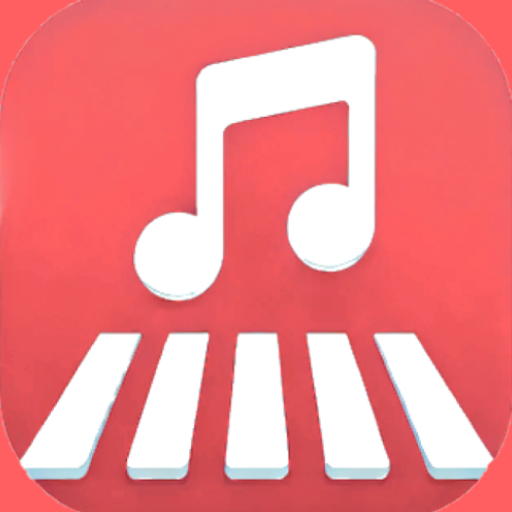
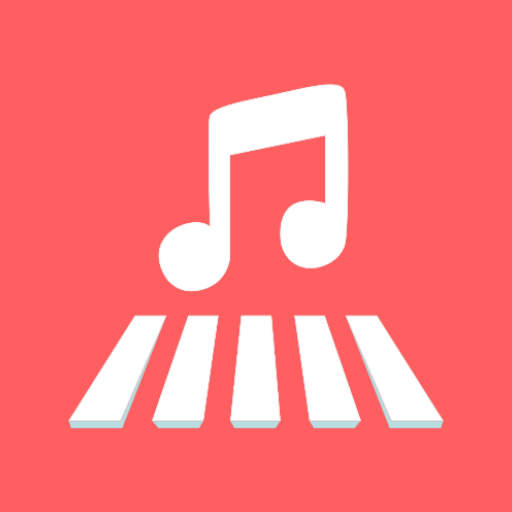
[design] 앱 아이콘 개선 및 스플래시 화면 띄우기

diff --git a/app/src/main/java/com/squirtles/musicroad/main/MainActivity.kt b/app/src/main/java/com/squirtles/musicroad/main/MainActivity.kt
@@ -10,6 +10,7 @@ import androidx.activity.viewModels
 import androidx.appcompat.app.AppCompatActivity
 import androidx.compose.runtime.remember
 import androidx.core.content.PermissionChecker
+import androidx.core.splashscreen.SplashScreen.Companion.installSplashScreen
 import androidx.navigation.compose.rememberNavController
 import com.squirtles.musicroad.MapViewModel
 import com.squirtles.musicroad.R
@@ -34,6 +35,7 @@ class MainActivity : AppCompatActivity() {
     }
 
     override fun onCreate(savedInstanceState: Bundle?) {
+        installSplashScreen()
         super.onCreate(savedInstanceState)
         if (checkSelfPermission()) {
             startMainScreen()
